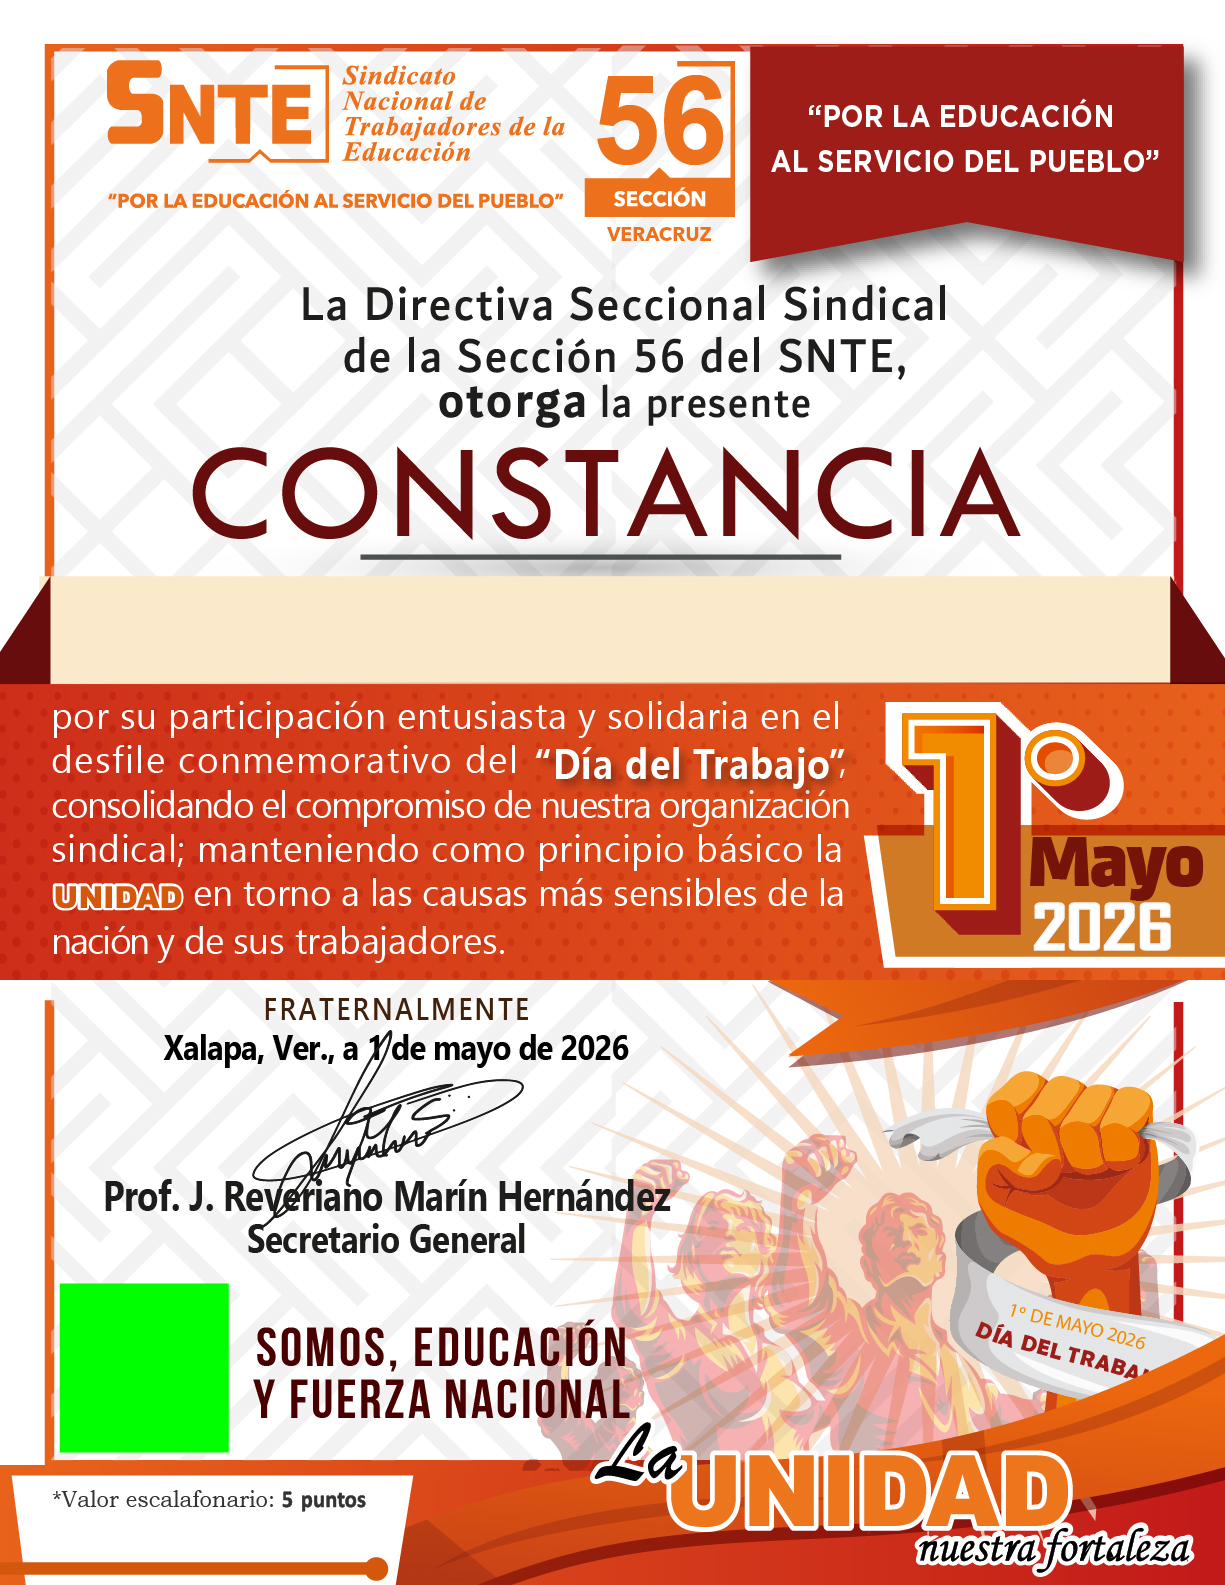
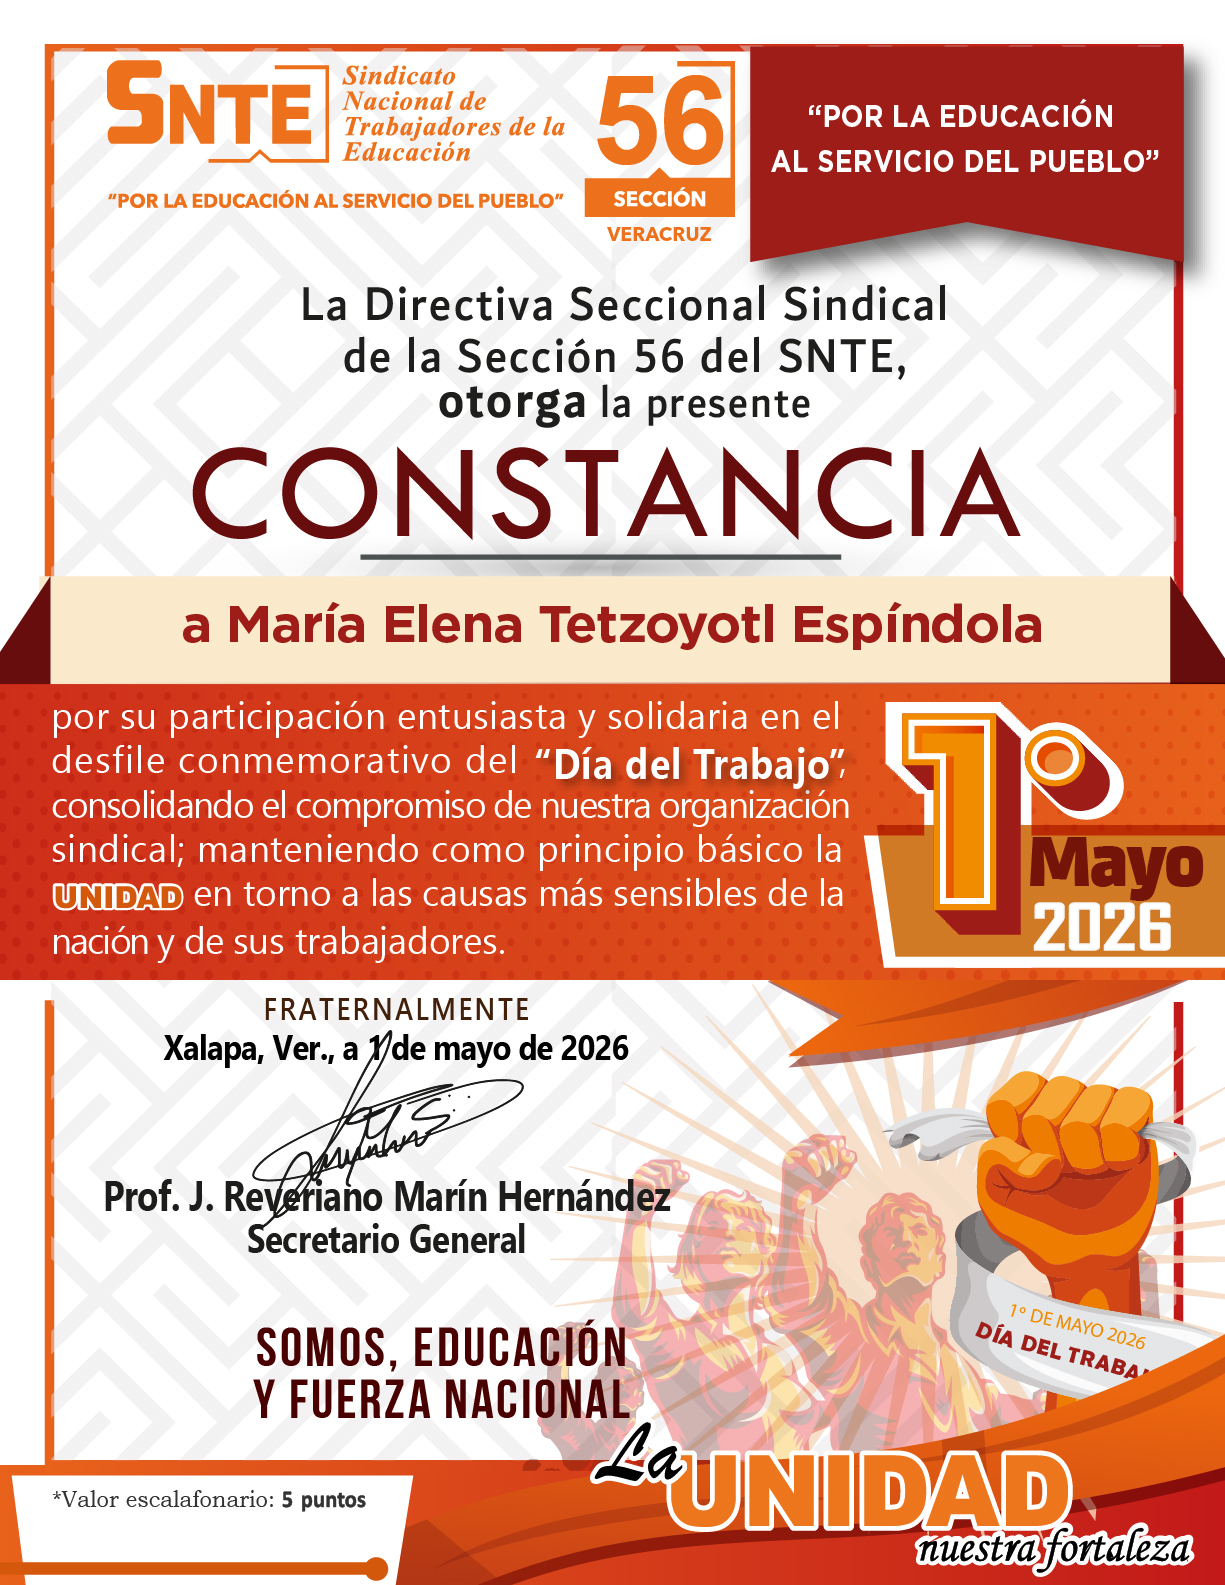
feat: Integrasion visual de guest con header y footer.

Changed region(s): [[0.1551, 0.371, 0.8686, 0.4328], [0.031, 0.8038, 0.1861, 0.9274]]

diff --git a/resources/views/layouts/guest.blade.php b/resources/views/layouts/guest.blade.php
@@ -4,17 +4,64 @@
     <meta charset="UTF-8">
     <meta name="viewport" content="width=device-width, initial-scale=1.0">
     <title>Consulta de Constancias - SNTE 56</title>
-    
-    
     @vite(['resources/css/app.css', 'resources/js/app.js'])
     @livewireStyles
 </head>
-<body class="bg-gray-100 antialiased">
-    
-    <div class="min-h-screen flex flex-col justify-center">
+<body class="bg-gray-100 antialiased flex flex-col min-h-screen">
+    <header>
+        <div class="bg-[#9d2449] flex items-center h-[80px] md:h-[90px]">
+
+            {{-- Fondo blanco con el logo --}}
+            <div class="bg-white flex items-center px-4 self-stretch">
+                <img src="{{ asset('images/logosnte56@4x-8.png') }}"
+                    alt="SNTE Sección 56 Veracruz"
+                    class="h-14 md:h-16 w-auto">
+            </div>
+
+            {{-- Triángulo division.png --}}
+            <img src="{{ asset('images/division@4x-8.png') }}"
+                alt=""
+                class="h-[80px] md:h-[90px] w-auto flex-shrink-0">
+
+            {{-- Espacio central guinda --}}
+            <div class="flex-1"></div>
+
+            {{-- Logo La Unidad derecha --}}
+            <div class="hidden md:flex items-center px-6 flex-shrink-0">
+                <img src="{{ asset('images/logounidad@4x-8.png') }}"
+                    alt="La Unidad - Nuestra Fortaleza"
+                    class="h-14 w-auto">
+            </div>
+
+        </div>
+
+        {{-- Franja naranja --}}
+        <div class="bg-[#f18c21] h-3"></div>
+    </header>
+
+    <div class="flex-1 flex flex-col justify-center py-6">
         {{ $slot }}
     </div>
+    <footer class="bg-[#9d2449]">
+        <div class="bg-[#f18c21] h-3"></div>
 
+        <div class="py-4 px-6 text-center">
+
+            {{-- Logo La Unidad visible solo en móvil --}}
+            <div class="flex justify-center mb-3 md:hidden">
+                <img src="{{ asset('images/logounidad@4x-8.png') }}"
+                    alt="La Unidad - Nuestra Fortaleza"
+                    class="h-12 w-auto">
+            </div>
+
+            <p class="text-white text-sm">
+                Sindicato Nacional de Trabajadores de la Educación &mdash; Sección 56 Veracruz
+            </p>
+            <p class="text-white/70 text-xs mt-1">
+                &copy; {{ date('Y') }} Todos los derechos reservados
+            </p>
+        </div>
+    </footer>
     @livewireScripts
 </body>
 </html>

diff --git a/resources/views/livewire/consulta-participante.blade.php b/resources/views/livewire/consulta-participante.blade.php
@@ -1,9 +1,5 @@
-<div class="min-h-screen bg-gray-100 flex flex-col">
-
-    <header class="bg-[#89194b] text-white p-4 shadow-md">
-        Sistema Institucional
-    </header>
-
+<div class="w-full max-w-2xl mx-auto mt-5 mb-5 px-4 py-4 sm:px-6 rounded-xl overflow-hidden">
+    
     <main class="flex-1 flex items-center justify-center">
 
         <div class="bg-white shadow-xl rounded-xl p-6 border-t-8 border-[#9d2449]">
@@ -102,15 +98,6 @@
 
     </main>
 
-    <footer class="bg-[#89194b] text-white p-3 text-center  px-6 py-3 text-xs md:text-sm">
-        Derechos reservados © ® 2026 | 
-        Sindicato Nacional de Trabajadores de la Educación Sección 56 |
-        José María Pino Suárez No. 04, Col. Centro. C.P. 94100, Xalapa, Veracruz, México. |
-        
-        <a href="/aviso-privacidad" 
-           class="underline hover:text-[#ff5608] transition">
-            Aviso de privacidad
-        </a>
-    </footer>
+
 
 </div>

diff --git a/app/Livewire/ConsultaParticipante.php b/app/Livewire/ConsultaParticipante.php
@@ -9,7 +9,7 @@ class ConsultaParticipante extends Component
 {
 
     public $numero_personal = '';
-    public $participante='';
+    public $participante;
     public $busqueda_realizada = false;
 
     public function buscarParticipante()
